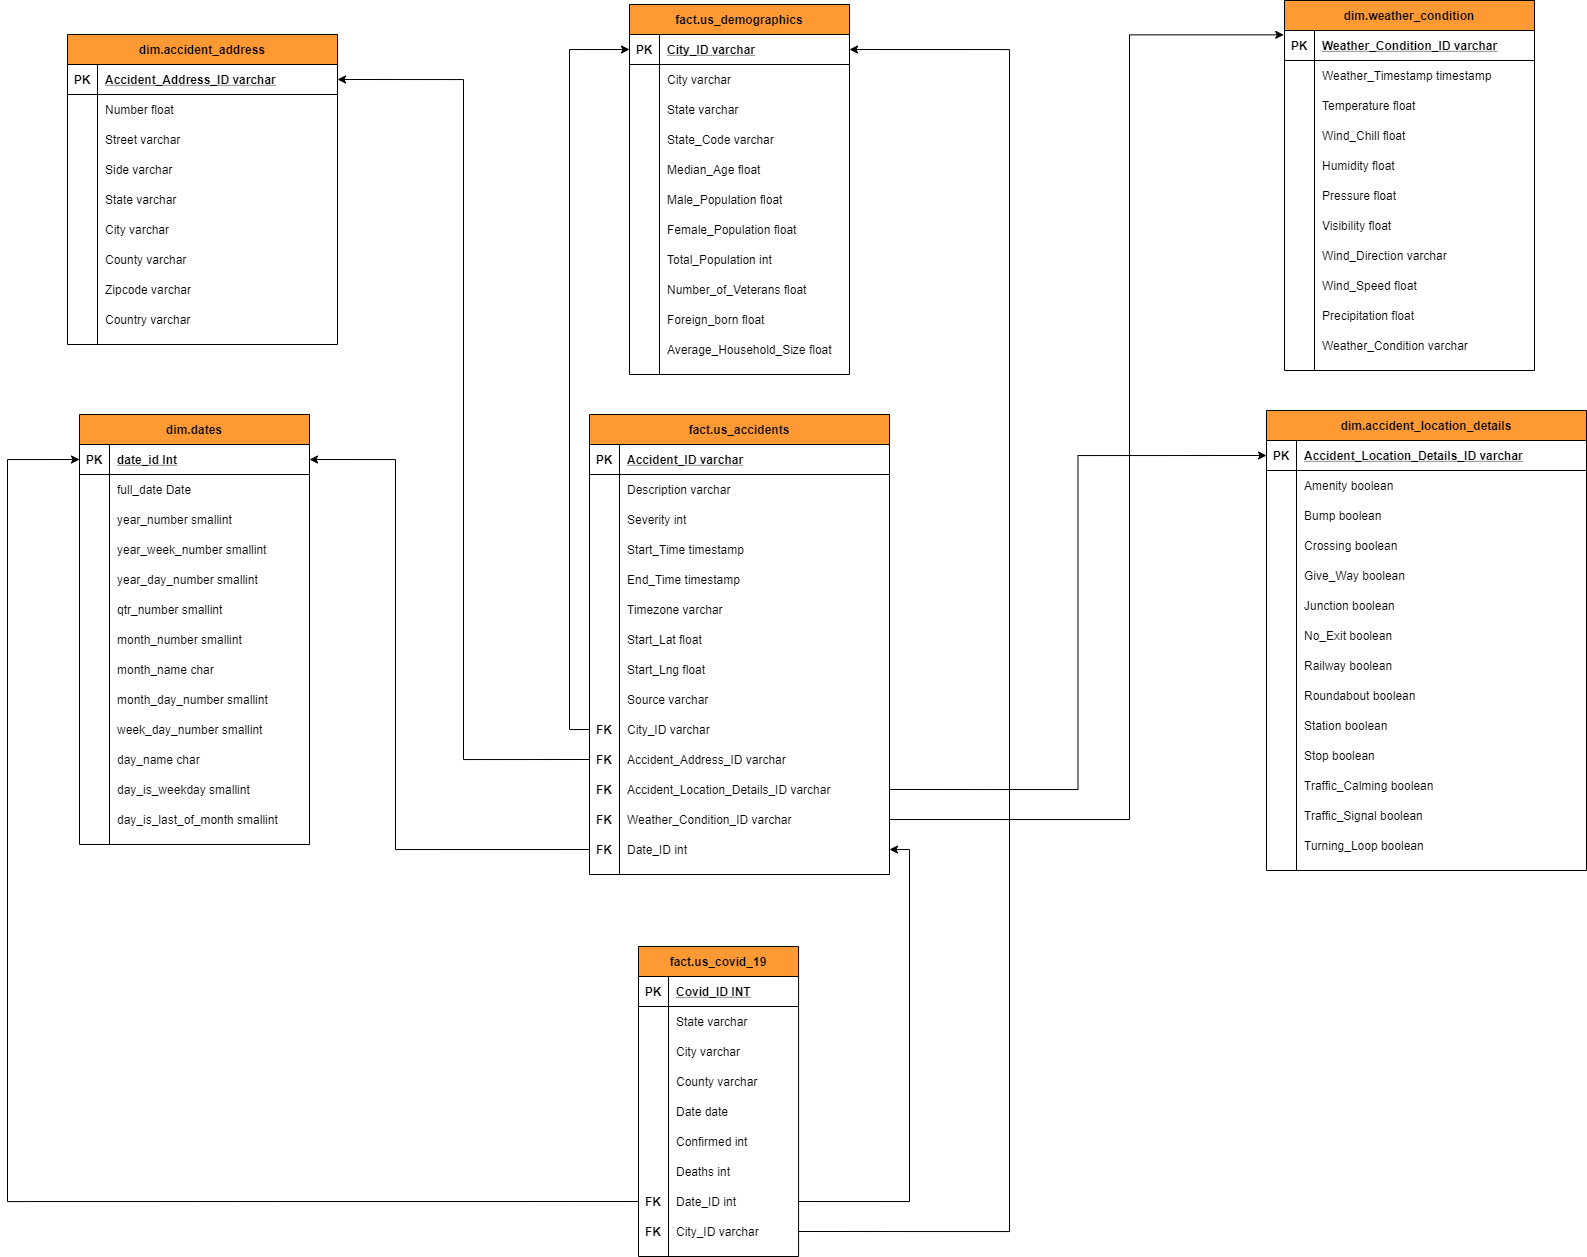
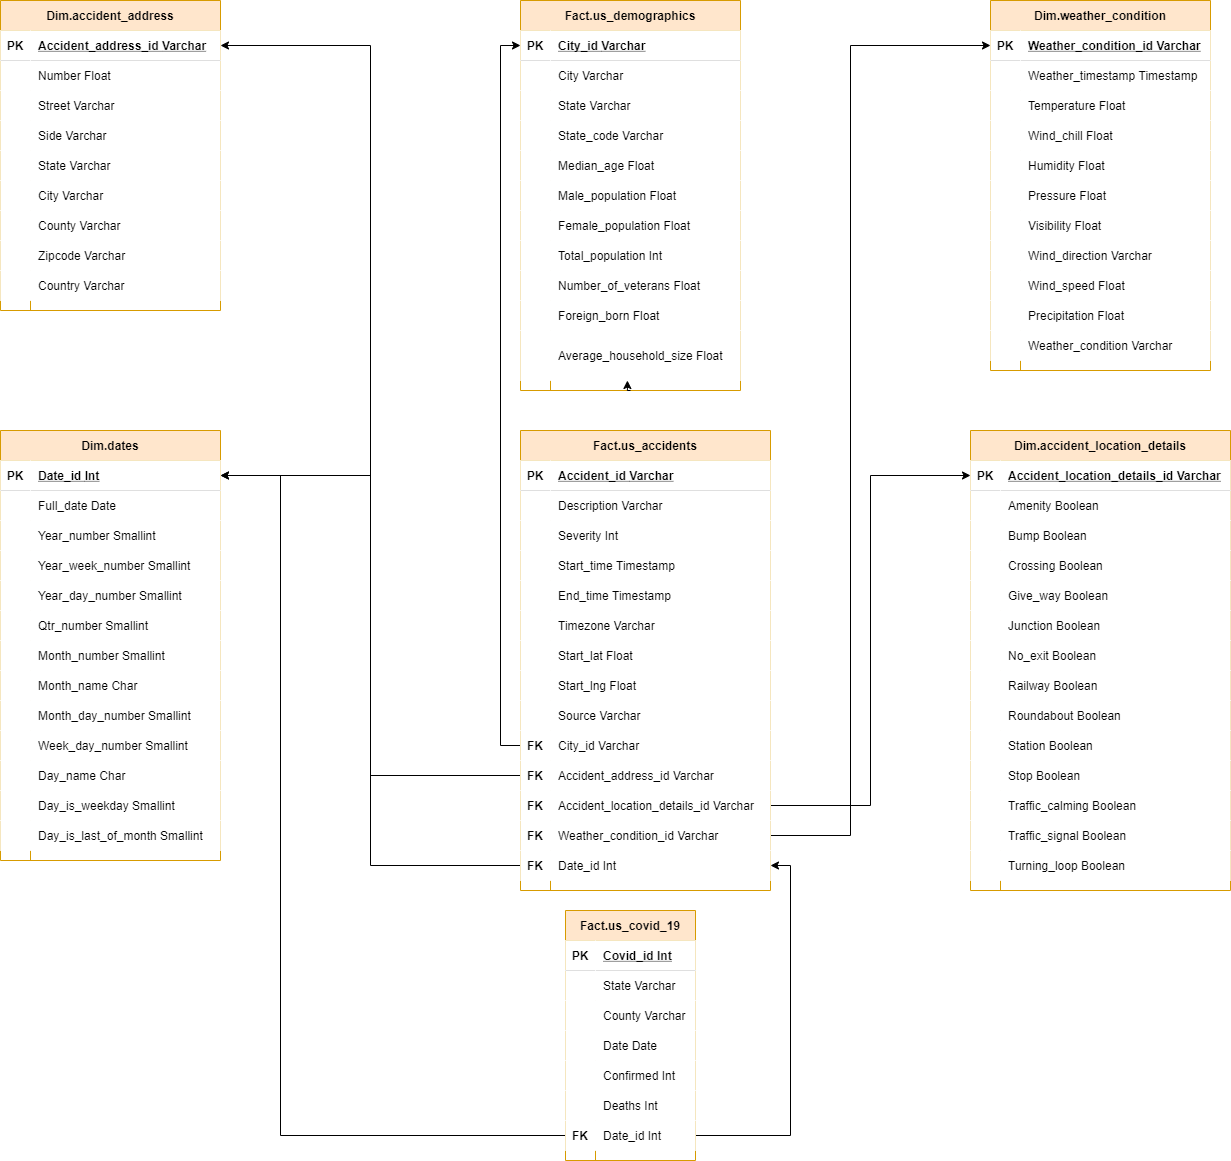
uploading new ERD

diff --git a/airflow/plugins/helpers/sql_load.py b/airflow/plugins/helpers/sql_load.py
@@ -119,12 +119,15 @@ class SqlLoad:
     insert_covid_table = ("""
     Select Row_Number() Over(order by true) As Covid_ID
 	,B.State_Code AS State
-    ,A.Country_Region As City
     ,A.Admin2 As County
     ,A.Date
-    ,A.Confirmed
-    ,A.Deaths
+    ,Sum(A.Confirmed) As Confirmed
+    ,Sum(A.Deaths) As Deaths
     ,extract('epoch' from A.Date) As Date_ID
     From staging.us_covid_19 As A
     Left Join (Select Distinct State, State_Code From staging.us_demographics) As B On A.Province_State = B.State
+    Group By B.State_Code
+            ,A.Admin2
+            ,A.Date
+            ,extract('epoch' from A.Date)
     """)

diff --git a/airflow/plugins/helpers/sql_create.py b/airflow/plugins/helpers/sql_create.py
@@ -199,7 +199,6 @@ class SqlCreate:
     CREATE TABLE IF NOT EXISTS fact.us_covid_19 (
      Covid_ID   INT PRIMARY KEY
     ,State      varchar
-    ,City       varchar
     ,County     varchar
     ,Date       date
     ,Confirmed  int
